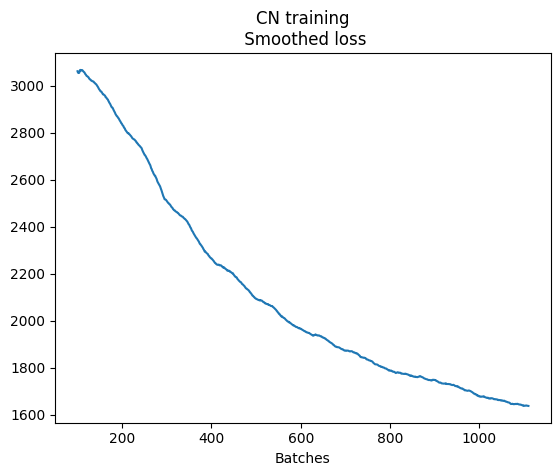
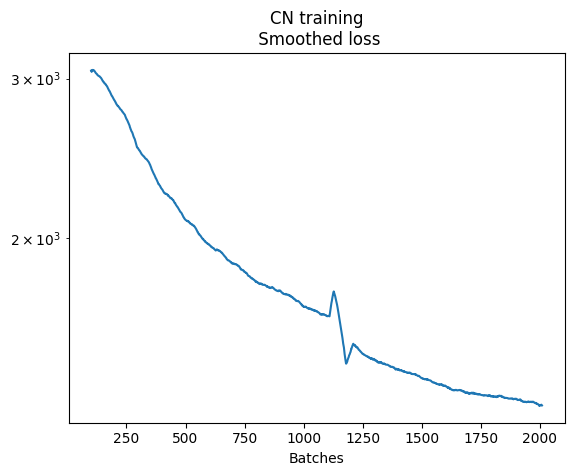
Compute CN training time

diff --git a/scripts/train_cn.py b/scripts/train_cn.py
@@ -44,7 +44,7 @@ def main(args):
     print(len(dataloader), " is the length of the dataloader")
     print(f"{train_sessions} train sessions planned")
 
-    for session in range(0):  # train_sessions
+    for session in range(train_sessions):  # train_sessions
         # trains the completion network
         current_loss_list = train_cn(
             cn, optimizer, dataloader, args.batchnum, replacement_val, info=False
